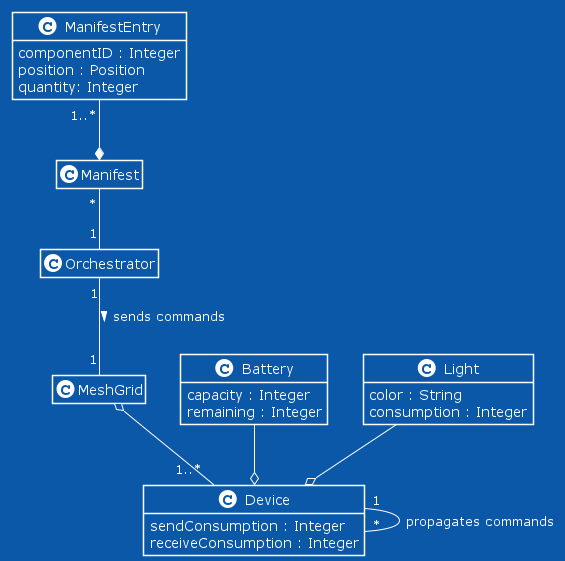
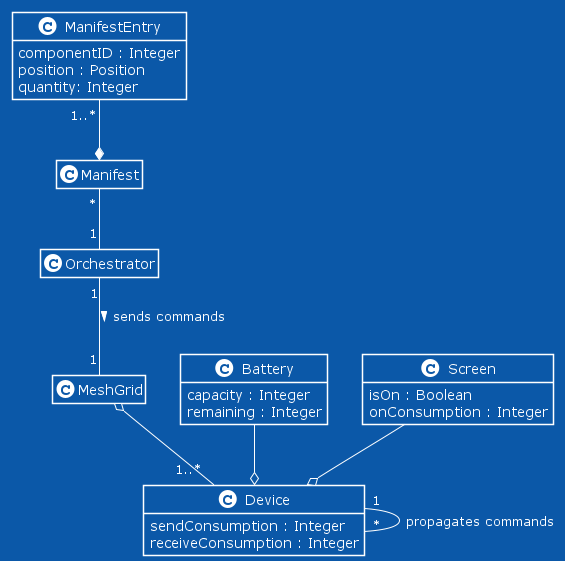
Update: UML class and architecture diagrams. Added new tools to architecture

diff --git a/mesh_communication/docs/wiki/architecture.md b/mesh_communication/docs/wiki/architecture.md
@@ -10,3 +10,5 @@ Tools:
 - [Maven](https://maven.apache.org/): To build and manage our Java project more easily, we will be using the Maven build automation tool. This tool allows for better dependency handling and is supported in the most popular IDEs.
 - [Javadoc](https://www.oracle.com/java/technologies/javase/javadoc-tool.html): API documentation generator for the Java source code.
 - Jackson: Java-based library that will be used to parse and manipulate YAML configuration files.
+- [Spring Boot](https://spring.io/projects/spring-boot): Framework built on top of the spring framework, used for building web applications and microservices. Will be used to develop the REST API for frontend communication with backend.
+- [Flutter](https://flutter.dev/): Cross-platform UI toolkit. Used for development of the graphical user interface to visualize the mesh communication.
